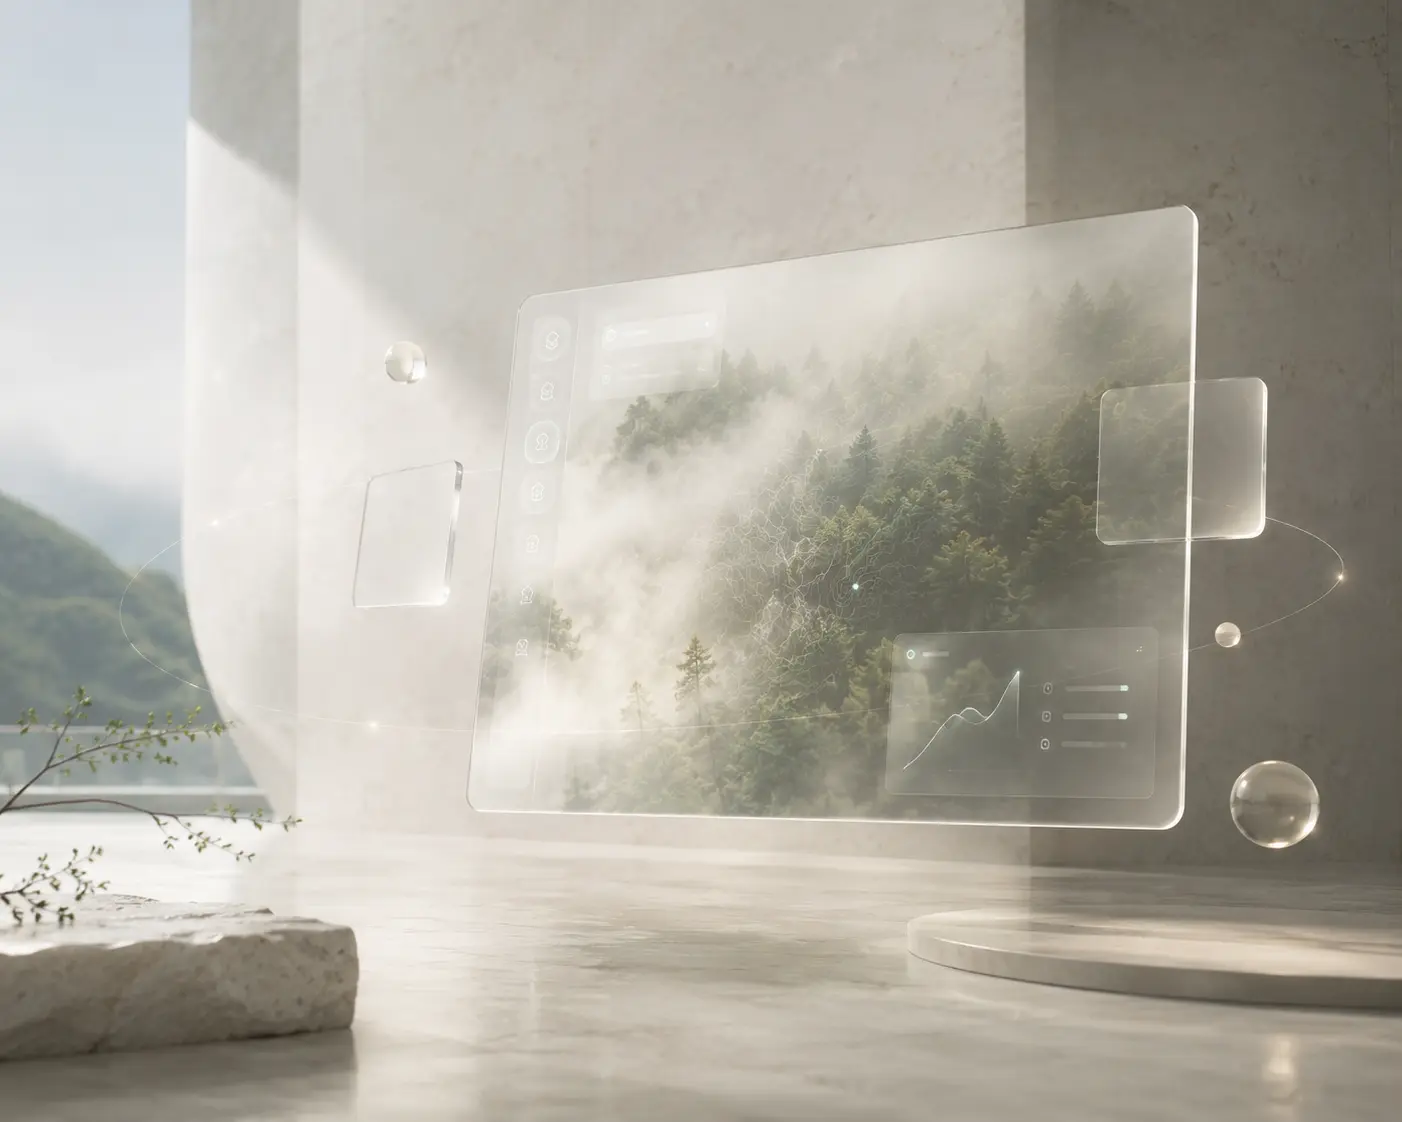
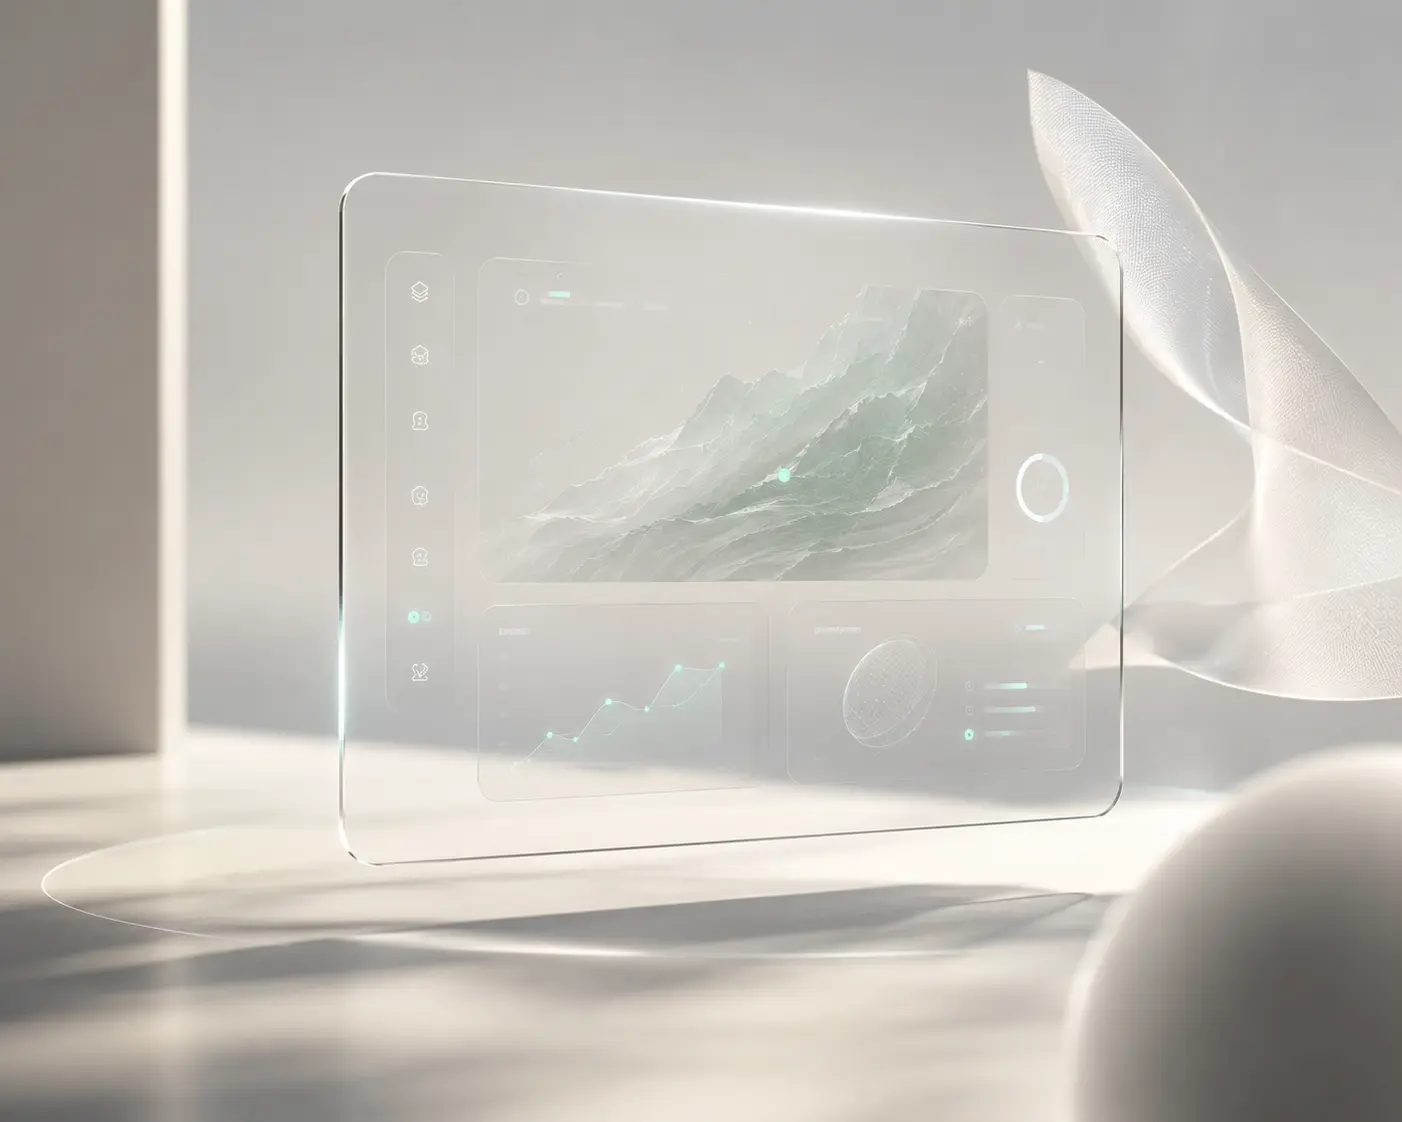
Polish hero

diff --git a/src/app/page.tsx b/src/app/page.tsx
@@ -112,7 +112,7 @@ export default function Home() {
               />
             ) : null}
           </ParallaxLayer>
-          <div className="absolute inset-0 bg-[linear-gradient(90deg,rgba(2,10,18,0.97)_0%,rgba(3,15,26,0.91)_38%,rgba(3,15,26,0.34)_68%,rgba(2,10,18,0.10)_100%)]" />
+          <div className="absolute inset-0 bg-[linear-gradient(99deg, rgb(244 244 244 / 97%), rgb(139 139 95 / 13%) 38%, rgb(255 255 255 / 0%) 68%, rgb(255 255 255 / 0%))]" />
           <ParallaxLayer
             className="absolute -inset-6"
             speed={-0.025}
